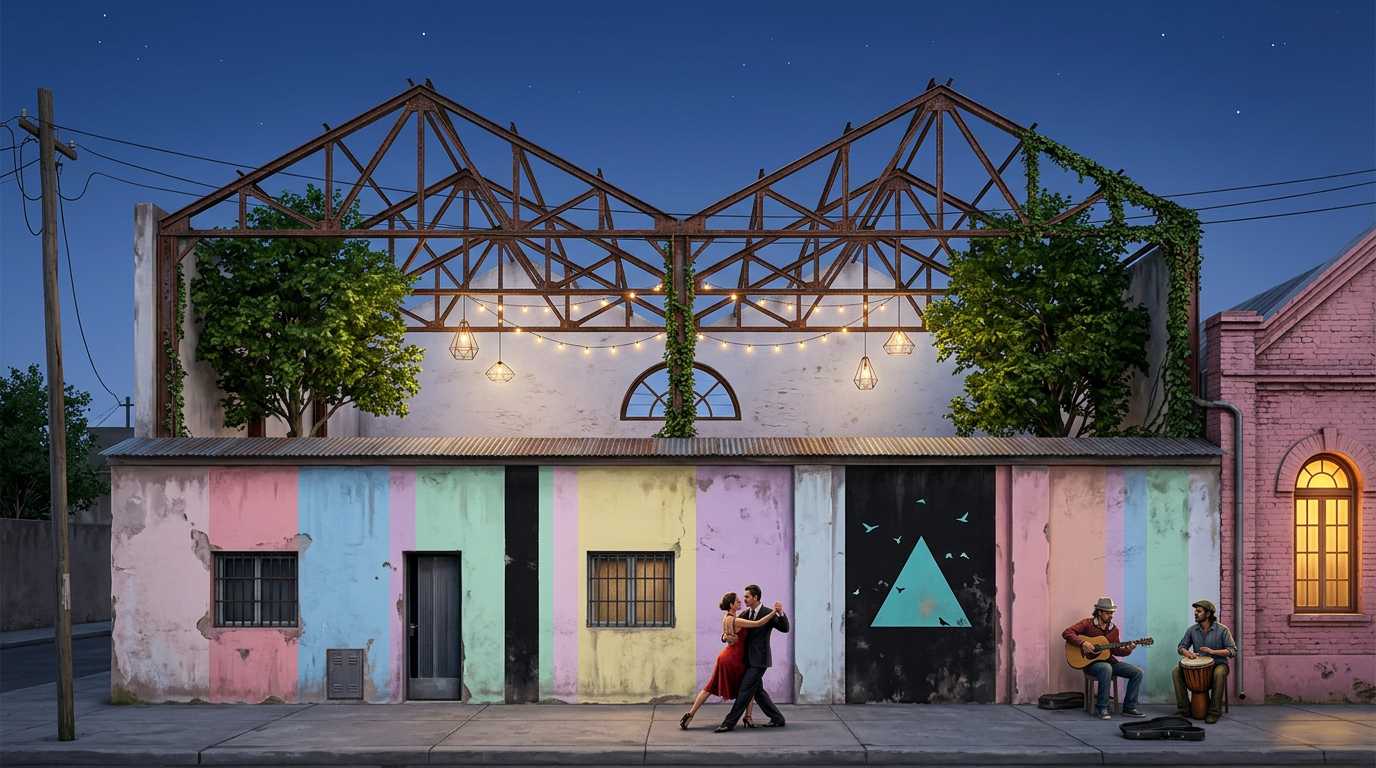
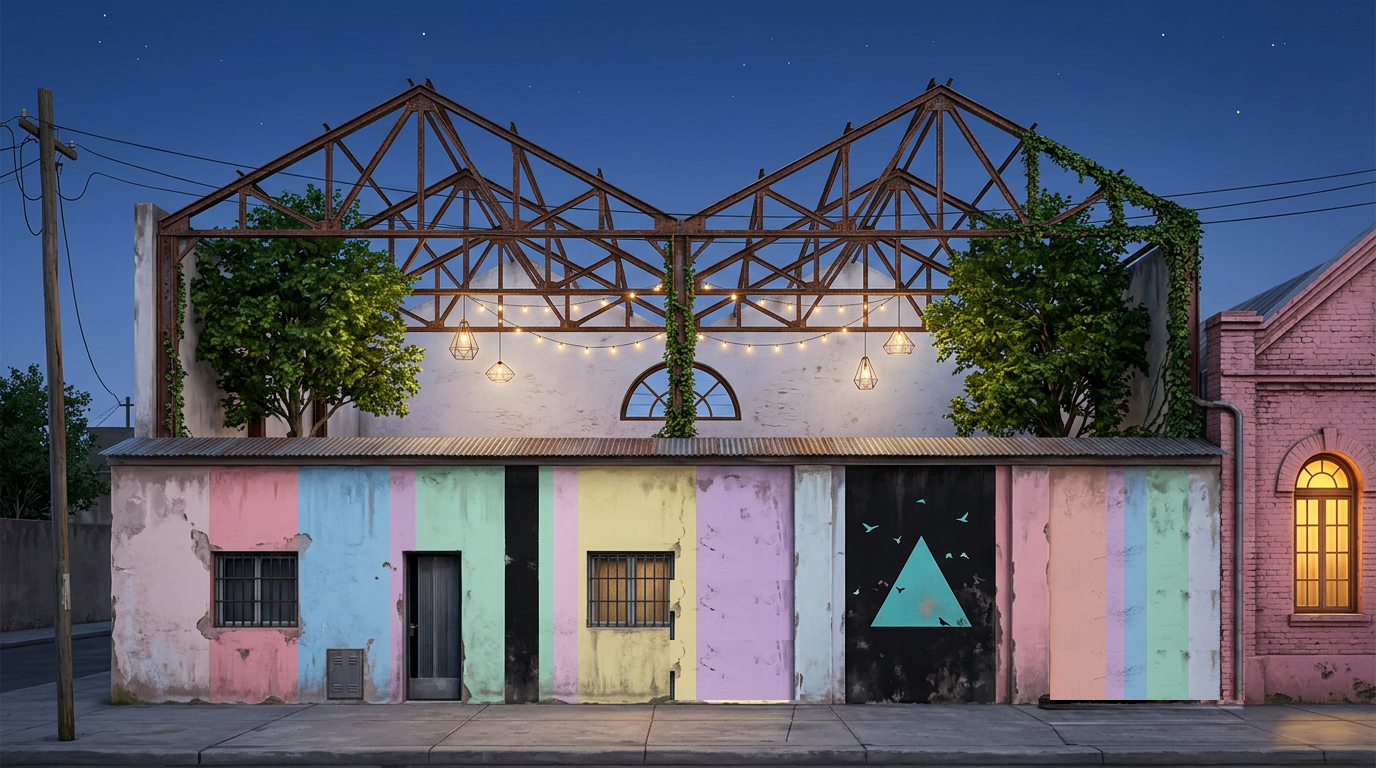
Soften hero motion and restyle performers as hand-painted circus figures

Changed region(s): [[0.75, 0.75, 0.9062, 0.9688], [0.4688, 0.75, 0.5938, 0.9688]]

diff --git a/components/bondi-scene.tsx b/components/bondi-scene.tsx
@@ -13,15 +13,15 @@ interface Box {
 // Tree regions in % of the scene; each is re-rendered from the same image and
 // swayed around its trunk base, with feathered edges hiding the seam.
 const TREES: Array<Box & { delay: string; duration: string }> = [
-  { left: 12.5, top: 22, width: 20, height: 36, delay: '0s', duration: '6s' },
-  { left: 66, top: 23, width: 19, height: 35, delay: '-2.2s', duration: '7s' },
-  { left: -1, top: 45, width: 10, height: 24, delay: '-1.1s', duration: '5.5s' },
+  { left: 12.5, top: 22, width: 20, height: 36, delay: '0s', duration: '13s' },
+  { left: 66, top: 23, width: 19, height: 35, delay: '-5s', duration: '15s' },
+  { left: -1, top: 45, width: 10, height: 24, delay: '-2.5s', duration: '12s' },
 ]
 
 const BALLS = [
   { delay: '0s', color: 'bg-[#f2c94c]' },
-  { delay: '-0.4s', color: 'bg-[#eb5757]' },
-  { delay: '-0.8s', color: 'bg-[#56ccf2]' },
+  { delay: '-0.733s', color: 'bg-[#eb5757]' },
+  { delay: '-1.467s', color: 'bg-[#56ccf2]' },
 ]
 
 function SwayingTree({ left, top, width, height, delay, duration }: (typeof TREES)[number]) {
@@ -64,7 +64,7 @@ export function BondiScene() {
     >
       <Image
         src={SCENE_SRC}
-        alt="Ilustración de El Bondi al anochecer: fachada de rayas pastel, cerchas de hierro con árboles y luces, una artista en tela aérea, un acróbata en cuerda, un malabarista, una pareja bailando tango y músicos en la vereda."
+        alt="Ilustración de El Bondi al anochecer: fachada de rayas pastel y cerchas de hierro con árboles y luces, con personajes de estilo circense: una artista en tela aérea, un acróbata en cuerda, un malabarista, una pareja bailando tango y músicos en la vereda."
         fill
         priority
         sizes="(max-width: 768px) 200vw, 100vw"
@@ -78,29 +78,47 @@ export function BondiScene() {
       {/* Aerial silks, hanging from the left truss */}
       <div
         aria-hidden="true"
-        className="absolute origin-[47%_0%] animate-aerial-swing drop-shadow-[0_6px_10px_rgba(0,0,0,0.35)]"
-        style={{ left: '35%', top: '30.5%', width: '7.6%', aspectRatio: '342 / 640' }}
+        className="absolute origin-[50%_0%] animate-aerial-swing drop-shadow-[0_6px_10px_rgba(0,0,0,0.35)]"
+        style={{ left: '34%', top: '30.5%', width: '9.5%', aspectRatio: '430 / 640' }}
       >
-        <Image src="/images/performer-silks.png" alt="" fill sizes="12vw" className="object-contain" />
+        <Image src="/images/performer-silks.png" alt="" fill sizes="14vw" className="object-contain" />
       </div>
 
       {/* Aerial rope, hanging from the right truss */}
       <div
         aria-hidden="true"
-        className="absolute origin-[26%_0%] animate-rope-swing drop-shadow-[0_6px_10px_rgba(0,0,0,0.35)]"
-        style={{ left: '56.5%', top: '30.5%', width: '5%', aspectRatio: '213 / 640' }}
+        className="absolute origin-[53%_0%] animate-rope-swing drop-shadow-[0_6px_10px_rgba(0,0,0,0.35)]"
+        style={{ left: '55.2%', top: '30.5%', width: '5%', aspectRatio: '208 / 640' }}
       >
         <Image src="/images/performer-rope.png" alt="" fill sizes="8vw" className="object-contain" />
+      </div>
+
+      {/* Tango couple on the sidewalk */}
+      <div
+        aria-hidden="true"
+        className="absolute drop-shadow-[0_4px_6px_rgba(0,0,0,0.4)]"
+        style={{ left: '46.8%', top: '76.2%', width: '13.2%', aspectRatio: '776 / 640' }}
+      >
+        <Image src="/images/performer-tango.png" alt="" fill sizes="20vw" className="object-contain" />
+      </div>
+
+      {/* Street musicians by the pink house */}
+      <div
+        aria-hidden="true"
+        className="absolute drop-shadow-[0_4px_6px_rgba(0,0,0,0.4)]"
+        style={{ left: '78%', top: '76.2%', width: '11%', aspectRatio: '687 / 611' }}
+      >
+        <Image src="/images/performer-musicians.png" alt="" fill sizes="18vw" className="object-contain" />
       </div>
 
       {/* Juggler on the sidewalk */}
       <div
         aria-hidden="true"
-        className="absolute"
-        style={{ left: '19.4%', top: '76%', width: '4.4%', aspectRatio: '282 / 640' }}
+        className="absolute drop-shadow-[0_4px_6px_rgba(0,0,0,0.4)]"
+        style={{ left: '19.25%', top: '76%', width: '4.7%', aspectRatio: '301 / 640' }}
       >
         <Image src="/images/performer-juggler.png" alt="" fill sizes="8vw" className="object-contain" />
-        <div className="absolute inset-x-[8%] bottom-[73%] h-[55%]">
+        <div className="absolute inset-x-[8%] bottom-[68%] h-[55%]">
           {BALLS.map((ball) => (
             <span
               key={ball.delay}

diff --git a/app/globals.css b/app/globals.css
@@ -256,29 +256,33 @@ html {
 
 /* Hero scene: trees swaying in the breeze */
 @keyframes tree-sway {
-  0%, 100% { transform: skewX(0deg) rotate(0deg); }
-  30% { transform: skewX(1.4deg) rotate(0.3deg); }
-  65% { transform: skewX(-0.9deg) rotate(-0.2deg); }
+  0%, 100% { transform: skewX(-0.35deg); }
+  50% { transform: skewX(0.45deg); }
 }
 .animate-tree-sway {
   transform-origin: 50% 100%;
-  animation: tree-sway 6s ease-in-out infinite;
+  animation: tree-sway 13s cubic-bezier(0.45, 0, 0.55, 1) infinite;
+  will-change: transform;
 }
 
-/* Hero scene: aerialists swinging from the trusses */
+/* Hero scene: aerialists swinging gently from the trusses */
 @keyframes aerial-swing {
-  0%, 100% { transform: rotate(-4deg); }
-  50% { transform: rotate(4deg); }
+  0%, 100% { transform: rotate(-1.2deg); }
+  50% { transform: rotate(1.2deg); }
 }
-.animate-aerial-swing { animation: aerial-swing 5s ease-in-out infinite; }
+.animate-aerial-swing {
+  animation: aerial-swing 11s cubic-bezier(0.45, 0, 0.55, 1) infinite;
+  will-change: transform;
+}
 
 @keyframes rope-swing {
-  0%, 100% { transform: rotate(3deg) scaleX(1); }
-  25% { transform: rotate(0deg) scaleX(0.94); }
-  50% { transform: rotate(-3deg) scaleX(1); }
-  75% { transform: rotate(0deg) scaleX(0.94); }
+  0%, 100% { transform: rotate(1deg); }
+  50% { transform: rotate(-1deg); }
 }
-.animate-rope-swing { animation: rope-swing 6.5s ease-in-out infinite; }
+.animate-rope-swing {
+  animation: rope-swing 13s cubic-bezier(0.45, 0, 0.55, 1) infinite;
+  will-change: transform;
+}
 
 /* Hero scene: three-ball cascade (x travels hand to hand, y arcs each throw) */
 @keyframes juggle-x {
@@ -290,8 +294,8 @@ html {
   50% { transform: translate(-50%, -400%); animation-timing-function: cubic-bezier(0.6, 0, 0.8, 0.4); }
   100% { transform: translate(-50%, 0); }
 }
-.animate-juggle-x { animation: juggle-x 0.6s linear infinite alternate; }
-.animate-juggle-y { animation: juggle-y 0.6s infinite; }
+.animate-juggle-x { animation: juggle-x 1.1s linear infinite alternate; }
+.animate-juggle-y { animation: juggle-y 1.1s infinite; }
 
 /* Respect users who prefer reduced motion */
 @media (prefers-reduced-motion: reduce) {
